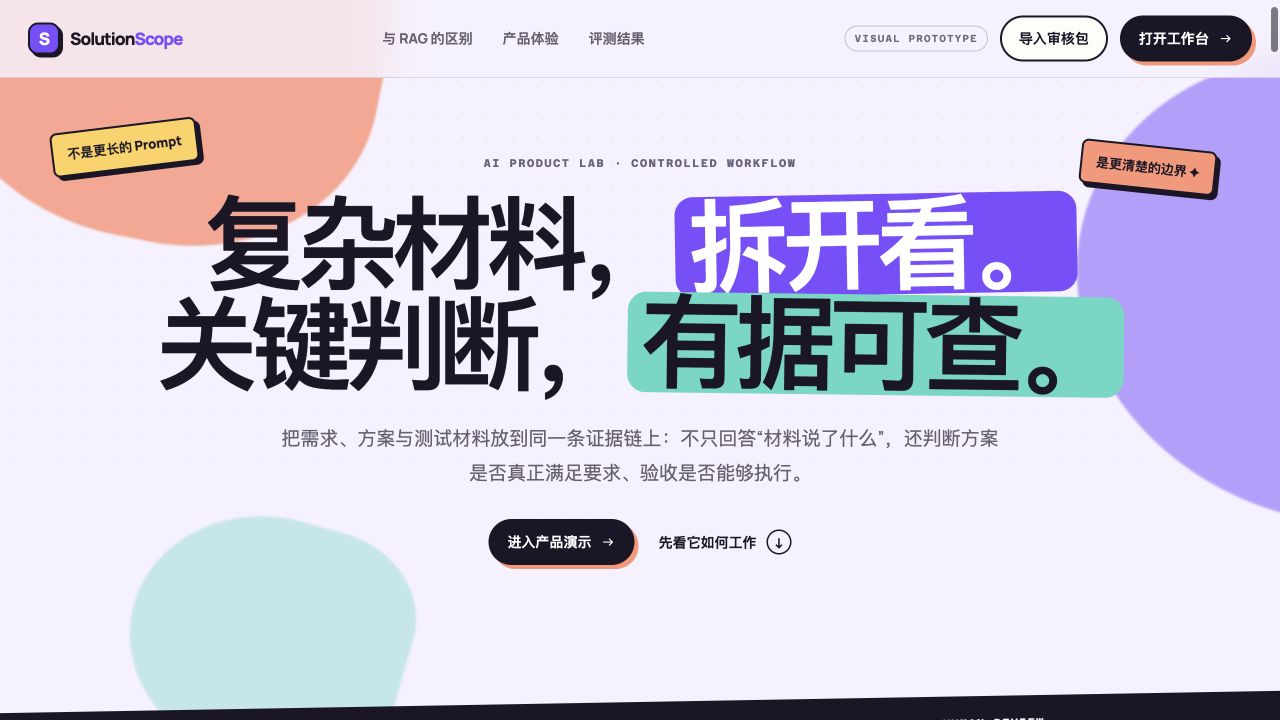
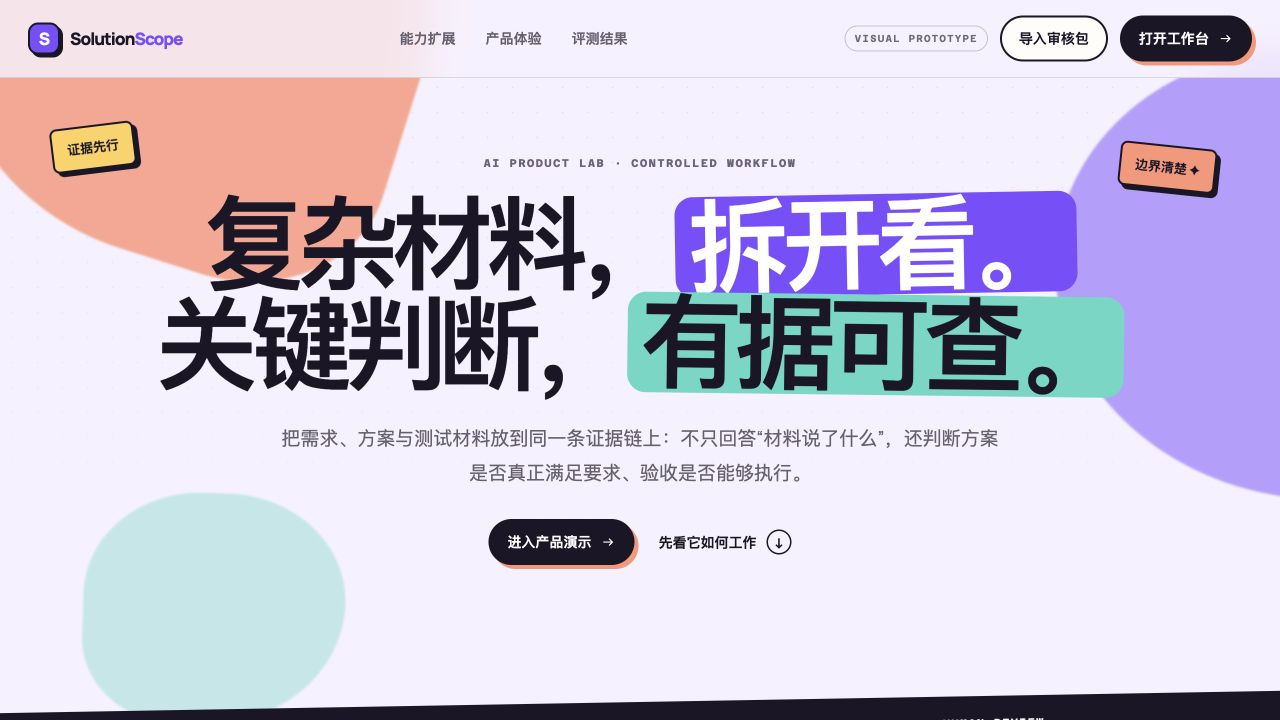
docs: present product screens in review sequence

diff --git a/docs/app.js b/docs/app.js
@@ -110,7 +110,7 @@ function nav() {
         <span class="logo-mark">S</span><span>Solution<em>Scope</em></span>
       </a>
       <nav class="nav-links" aria-label="主导航">
-        <a href="#rag-boundary">与 RAG 的区别</a><a href="#product">产品体验</a><a href="#evaluation">评测结果</a>
+        <a href="#rag-boundary">能力扩展</a><a href="#product">产品体验</a><a href="#evaluation">评测结果</a>
       </nav>
       <div class="nav-actions">
         <span class="prototype-badge">VISUAL PROTOTYPE</span>
@@ -123,8 +123,8 @@ function hero() {
   return `
     <section class="hero" id="top">
       <div class="hero-blob blob-coral"></div><div class="hero-blob blob-violet"></div><div class="hero-blob blob-mint"></div>
-      <div class="sticker sticker-left">不是更长的 Prompt</div>
-      <div class="sticker sticker-right">是更清楚的边界 ✦</div>
+      <div class="sticker sticker-left">证据先行</div>
+      <div class="sticker sticker-right">边界清楚 ✦</div>
       <div class="hero-content reveal">
         <span class="eyebrow">AI PRODUCT LAB · CONTROLLED WORKFLOW</span>
         <h1>复杂材料，<span class="purple-block">拆开看。</span><br/>关键判断，<span class="mint-block">有据可查。</span></h1>
@@ -142,7 +142,7 @@ function hero() {
 
 function ragBoundaryStory() {
   return `
-    <section class="rag-boundary-demo rag-boundary-lead" id="rag-boundary" aria-label="SolutionScope 相对普通 RAG 扩展的能力边界">
+    <section class="rag-boundary-demo rag-boundary-lead" id="rag-boundary" aria-label="SolutionScope 从检索回答扩展到逐项审核的能力">
       <div class="rag-boundary-heading">
         <span class="eyebrow">REQUIREMENT ASSURANCE · BEYOND KNOWLEDGE Q&amp;A</span>
         <h2>把技术要求，转化为<br/>可执行、可追溯的审核规则。</h2>
@@ -425,7 +425,7 @@ function productDemo() {
   return `
     <section class="product-section" id="product">
       ${scenarioIntro()}
-      <div class="section-heading reveal"><div><span class="eyebrow">LIVE PRODUCT PREVIEW</span><h2>下面不是一张效果图，<br/>是一段完整的审核体验。</h2></div><p>这里使用合成内容演示信息层级与交互，不读取真实项目材料，也不调用任何模型。</p></div>
+      <div class="section-heading reveal"><div><span class="eyebrow">LIVE PRODUCT PREVIEW</span><h2>从原文核对到放行判断，<br/>完整走一遍审核流程。</h2></div><p>使用脱敏合成内容演示证据定位、覆盖判断、人工复核与报告输出。</p></div>
       <div class="demo-stack">
         <section class="demo-block demo-block-review reveal" id="review-workbench">
           <div class="demo-block-heading"><span class="demo-block-index">01</span><div><small>CORE INTERACTION</small><h3>审核工作台</h3><p>对照原文逐项核对要求、证据、缺口与验收口径，并保留人工决定。</p></div><b>可交互</b></div>
@@ -474,7 +474,7 @@ function workflowStory() {
 function evaluationStory() {
   return `
     <section class="evaluation-section" id="evaluation">
-      <div class="evaluation-copy reveal"><span class="eyebrow">MODEL EVALUATION</span><h2>提升来自流程约束，<br/>不是模型突然变聪明。</h2><p>在两份 492 页与 733 页的公开标准上，使用相同轻量模型和相同案例进行开发集对照：受控工作流让模型先建立覆盖清单、再逐项回答，主要减少关键要求与评估对象被摘要压缩的问题；数值达标、状态冲突和最终放行则由独立门禁处理。</p><button class="button button-dark js-open-pane" data-scroll-target="evaluation-report">打开评测报告 ${icon("chart")}</button></div>
+      <div class="evaluation-copy reveal"><span class="eyebrow">MODEL EVALUATION</span><h2>受控工作流，<br/>减少长材料中的关键遗漏。</h2><p>在两份 492 页与 733 页的公开标准上，使用相同轻量模型和相同案例进行开发集对照：先建立证据规划和覆盖清单，再逐项回答；关键标识、评估目标和评估方法召回均获得提升，同时保持证据绑定与验收边界判断。</p><button class="button button-dark js-open-pane" data-scroll-target="evaluation-report">打开评测报告 ${icon("chart")}</button></div>
       <div class="evaluation-visual reveal">
         <div class="eval-header"><span>FROZEN DEVELOPMENT PILOT</span><b>gpt-5.4-mini / low · n=6</b></div>
         <div class="metric-compare-list">

diff --git a/docs/index.html b/docs/index.html
@@ -7,7 +7,7 @@
     <meta name="description" content="SolutionScope：面向技术方案评审与验收准备的证据约束审核工作台" />
     <title>SolutionScope — 技术材料审核工作台</title>
     <link rel="icon" href="data:," />
-    <link rel="stylesheet" href="styles.css?v=benchmark-e2-20260811" />
+    <link rel="stylesheet" href="styles.css?v=story-sequence-20260825" />
   </head>
   <body>
     <!-- 本地审核原型：默认使用脱敏合成数据，可导入 Skill 生成的审核包。 -->
@@ -16,7 +16,7 @@
     <script src="fixture.js"></script>
     <script src="payload.js"></script>
     <script src="state.js"></script>
-    <script src="app.js?v=benchmark-e2-20260811"></script>
+    <script src="app.js?v=story-sequence-20260825"></script>
     <script src="runtime.js?v=manual-review-20260810"></script>
   </body>
 </html>

diff --git a/README.md b/README.md
@@ -14,17 +14,13 @@ SolutionScope 针对技术材料中“要求写了、方案提了、验收也有
 
 ![SolutionScope 当前产品首页](docs/assets/01-home-current.png)
 
-## 一眼看懂：它把 RAG 的证据变成什么
+## 能力扩展：从检索回答到逐项审核
 
-RAG负责寻找相关证据，大模型也可以据此给出一次判断；SolutionScope的差异，是把这种判断固化为可执行、可追溯的审核流程：**要求原子化、需求—方案—验收三方覆盖判断、确定性指标门禁，以及变更复核与人工放行**。
+SolutionScope 将材料中的相关证据继续编译为**要求原子、三方覆盖关系、确定性门禁与人工复核动作**。模型负责理解与结构化，程序负责状态、单位和阈值判断，人工负责材料无法裁决的真实口径。
 
-例如，需求材料规定了最低指标，验收材料也设置了通过口径，但方案只写“支持该能力”而没有作出最低指标承诺。相关内容虽然都能被检索到，系统仍会判定方案覆盖不足，阻断当前放行并生成复核动作。
+最终产出从一段综合回答扩展为：逐项审核状态、原文依据、阻断原因和下一动作。例如，需求规定最低指标、验收也给出通过口径，但方案只写“支持该能力”而未承诺最低指标时，系统会将其判为覆盖不足并生成复核动作。
 
-这里的技术重点不是声称大模型“不会判断”，而是把能力分工固定下来：**模型负责定位与结构化，程序负责状态、单位和阈值门禁，人工负责材料无法裁决的真实口径。**最终交付的不是一段综合回答，而是逐项审核状态、依据、阻断原因和下一动作。
-
-## 它为什么不是普通 RAG
-
-普通 RAG 回答“材料里说了什么”；SolutionScope v2.2 进一步判断：
+当前可审核的能力包括：
 
 1. 每项要求包含哪些动作、条件和量化指标；
 2. 方案材料是否逐项作出响应，而不是只出现相关术语；
@@ -34,7 +30,7 @@ RAG负责寻找相关证据，大模型也可以据此给出一次判断；Solut
 6. 要求版本发生变化后，哪些方案承诺、验收方法和放行结论必须重新确认。
 7. 方案和验收口径中的数值、单位与上下限，是否真的满足要求，而不是只看语义相关。
 
-要求、方案和验收证据具有不同角色，不能互相替代。模型只负责逐组件判断，最终覆盖状态、放行结论和变更复核任务由确定性规则派生。可先阅读精简的 [`v2.2 功能说明`](docs/v2-2-product-capability-brief.md)，完整边界与案例见 [`与普通 RAG 的边界及产品深化`](docs/v2-rag-boundary-and-product-deepening.md)。
+要求、方案和验收证据具有不同角色，不能互相替代。模型只负责逐组件判断，最终覆盖状态、放行结论和变更复核任务由确定性规则派生。可先阅读精简的 [`v2.2 功能说明`](docs/v2-2-product-capability-brief.md)，完整设计与案例见 [`产品深化说明`](docs/v2-rag-boundary-and-product-deepening.md)。
 
 ## 核心产品判断
 
@@ -74,19 +70,49 @@ RAG负责寻找相关证据，大模型也可以据此给出一次判断；Solut
 | 旧版当前入口 | `skill/solutionscope/` | 单文档离线准备、登记、校验、组装和报告链路 |
 | 审核决策原型 | `prototype/review-decision-v2/` | 本地审核、三层门禁、决策卡导出 |
 
-## 产品原型
+## 产品演示：按实际审核顺序浏览
 
-### 与普通 RAG 的能力边界
+### 01 · 产品场景
 
-![普通 RAG 与 SolutionScope 的能力边界](docs/assets/02-rag-boundary-current.png)
+从技术方案、可研与验收材料中的真实审核问题切入。
 
-### 可交互审核工作台
+![SolutionScope 产品场景](docs/assets/01-home-current.png)
 
-![SolutionScope 当前审核工作台](docs/assets/03-review-workbench-current.png)
+### 02 · 能力扩展
 
-### 开发集评测结果
+从“检索证据并回答”扩展到“编译要求、核对覆盖并执行门禁”。
 
-![SolutionScope 当前评测结果](docs/assets/04-evaluation-current.png)
+![SolutionScope 能力扩展](docs/assets/02-capability-expansion-current.png)
+
+### 03 · 效果验证
+
+在相同轻量模型、相同冻结案例下，分别展示关键标识、评估目标和评估方法的召回变化。
+
+![SolutionScope 开发集评测](docs/assets/03-evaluation-current.png)
+
+### 04 · 审核工作台
+
+对照原文、AI 草稿和结构化字段，逐项接受、修改或转人工判断。
+
+![SolutionScope 审核工作台](docs/assets/04-review-workbench-current.png)
+
+### 05 · 三方覆盖矩阵
+
+分别核对需求要求、方案承诺与验收方法，避免相关材料互相替代。
+
+![SolutionScope 三方覆盖矩阵](docs/assets/05-coverage-matrix-current.png)
+
+### 06 · 工作流运行
+
+展示导入、证据规划、结构校验、规则门禁和人工复核的处理过程。
+
+![SolutionScope 工作流运行](docs/assets/06-workflow-run-current.png)
+
+### 07 · 审核报告
+
+分开呈现审核进度、门禁结果、风险项与下一动作。
+
+![SolutionScope 审核报告](docs/assets/07-review-report-current.png)
 
 ## 快速检查
 
